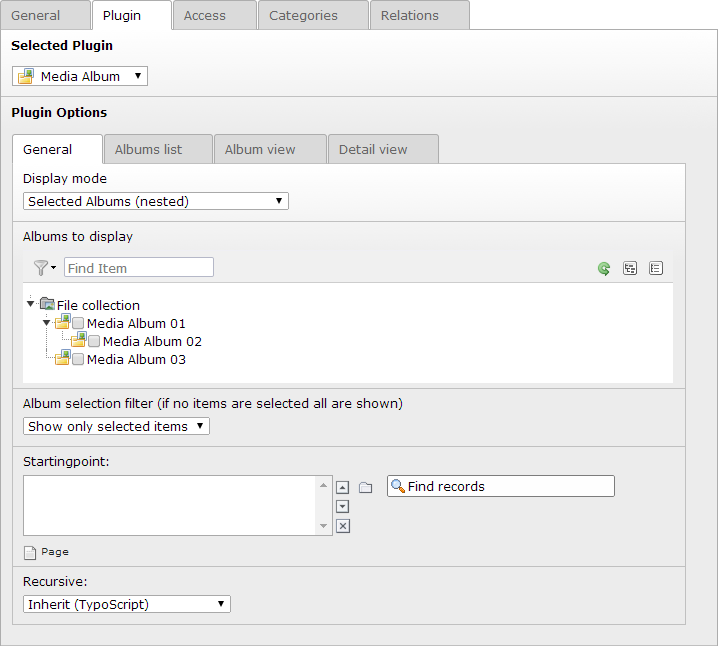
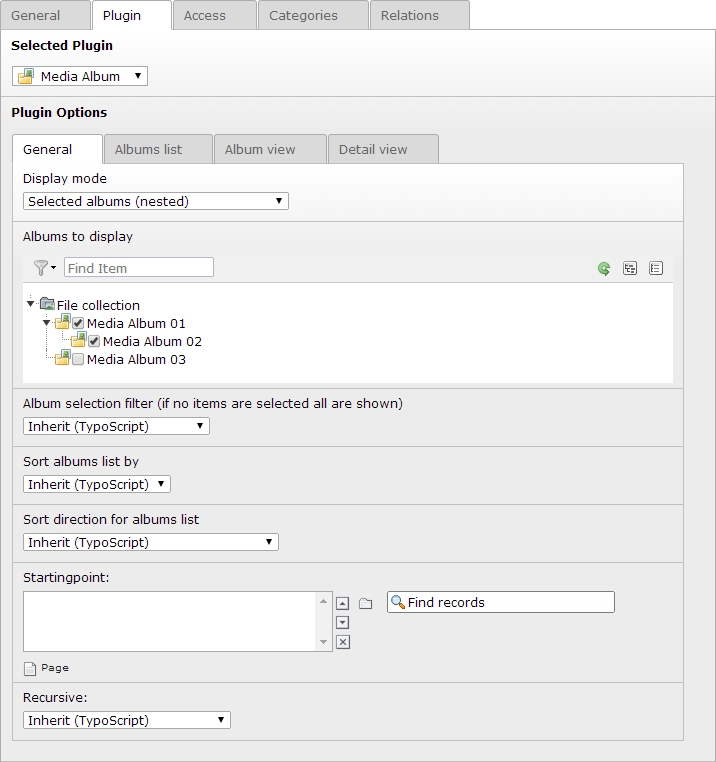
[FEATURE] add option to set sorting of albums in nestedListAction; fixes #70

diff --git a/Classes/Domain/Repository/MediaAlbumRepository.php b/Classes/Domain/Repository/MediaAlbumRepository.php
@@ -118,9 +118,11 @@ class MediaAlbumRepository extends \TYPO3\CMS\Extbase\Persistence\Repository {
 	 * @param array $filterByUids filter possible result by given uids
 	 * @param boolean $useAlbumFilterAsExclude
 	 * @param boolean $excludeEmptyAlbums
+	 * @param string $orderBy Sort albums by: datetime|crdate|sorting
+	 * @param string $orderDirection Sort order: asc|desc
 	 * @return \TYPO3\CMS\Extbase\Persistence\Generic\QueryResult
 	 */
-	public function findByParentAlbum(MediaAlbum $parentAlbum = NULL, array $filterByUids = array(), $useAlbumFilterAsExclude = FALSE, $excludeEmptyAlbums = TRUE) {
+	public function findByParentAlbum(MediaAlbum $parentAlbum = NULL, array $filterByUids = array(), $useAlbumFilterAsExclude = FALSE, $excludeEmptyAlbums = TRUE, $orderBy = 'sorting', $orderDirection = 'desc') {
 		$excludeEmptyAlbums = filter_var($excludeEmptyAlbums, FILTER_VALIDATE_BOOLEAN);
 		$query = $this->createQuery();
 		$constraints = array();
@@ -133,6 +135,7 @@ class MediaAlbumRepository extends \TYPO3\CMS\Extbase\Persistence\Repository {
 			}
 		}
 		$query->matching($query->logicalAnd($constraints));
+		$query->setOrderings($this->getOrderingsSettings($orderBy, $orderDirection));
 		$mediaAlbums = $query->execute();
 
 		foreach ($mediaAlbums as $key => $mediaAlbum) {
@@ -177,30 +180,7 @@ class MediaAlbumRepository extends \TYPO3\CMS\Extbase\Persistence\Repository {
 	public function findAll($excludeEmptyAlbums = TRUE, $orderBy = 'datetime', $orderDirection = 'desc') {
 		$excludeEmptyAlbums = filter_var($excludeEmptyAlbums, FILTER_VALIDATE_BOOLEAN);
 		$query = $this->createQuery();
-
-		// check orderDirection
-		if ($orderDirection === 'asc') {
-			$orderDirection = \TYPO3\CMS\Extbase\Persistence\QueryInterface::ORDER_ASCENDING;
-		} else {
-			$orderDirection = \TYPO3\CMS\Extbase\Persistence\QueryInterface::ORDER_DESCENDING;
-		}
-
-		// set orderBy and orderDirection
-		switch ($orderBy) {
-			case 'sorting':
-				$query->setOrderings(array('sorting' => $orderDirection));
-				break;
-			case 'crdate':
-				$query->setOrderings(array('crdate' => $orderDirection));
-				break;
-			default:
-				// datetime
-				$query->setOrderings(array(
-					'datetime' => $orderDirection,
-					'crdate' => $orderDirection,
-				));
-		}
-
+		$query->setOrderings($this->getOrderingsSettings($orderBy, $orderDirection));
 		$mediaAlbums = $query->execute();
 
 		foreach ($mediaAlbums as $key => $mediaAlbum) {
@@ -233,6 +213,48 @@ class MediaAlbumRepository extends \TYPO3\CMS\Extbase\Persistence\Repository {
 			$whereClause .= \TYPO3\CMS\Backend\Utility\BackendUtility::deleteClause('sys_file_collection');
 		}
 		return $whereClause;
+	}
+
+	/**
+	 * Get orderings settings. Returns an array like:
+	 * array(
+	 *  'foo' => \TYPO3\CMS\Extbase\Persistence\QueryInterface::ORDER_ASCENDING,
+	 *  'bar' => \TYPO3\CMS\Extbase\Persistence\QueryInterface::ORDER_DESCENDING
+	 * )
+	 *
+	 * @param string $orderBy Sort albums by: datetime|crdate|sorting
+	 * @param string $orderDirection Sort order: asc|desc
+	 * @return array Orderings settings used by \TYPO3\CMS\Extbase\Persistence\QueryInterface->setOrderings()
+	 */
+	protected function getOrderingsSettings($orderBy = 'sorting', $orderDirection = 'asc') {
+
+		// check orderDirection
+		if ($orderDirection === 'asc') {
+			$orderDirection = \TYPO3\CMS\Extbase\Persistence\QueryInterface::ORDER_ASCENDING;
+		} else {
+			$orderDirection = \TYPO3\CMS\Extbase\Persistence\QueryInterface::ORDER_DESCENDING;
+		}
+
+		// set $orderingsSettings by orderBy and orderDirection
+		switch ($orderBy) {
+			case 'datetime':
+				$orderingsSettings = array(
+					'datetime' => $orderDirection,
+					'crdate' => $orderDirection
+				);
+				break;
+			case 'crdate':
+				$orderingsSettings = array('crdate' => $orderDirection);
+				break;
+			default:
+				// sorting
+				$orderingsSettings = array(
+					'sorting' => $orderDirection,
+					'crdate' => $orderDirection
+				);
+		}
+
+		return $orderingsSettings;
 	}
 
 }

diff --git a/Classes/Controller/MediaAlbumController.php b/Classes/Controller/MediaAlbumController.php
@@ -189,12 +189,12 @@ class MediaAlbumController extends ActionController {
 			}
 		}
 
-		$mediaAlbums = $this->mediaAlbumRepository->findByParentalbum($mediaAlbum, $mediaAlbumsUids, $useAlbumFilterAsExclude, $this->settings['list']['hideEmptyAlbums']);
+		$mediaAlbums = $this->mediaAlbumRepository->findByParentalbum($mediaAlbum, $mediaAlbumsUids, $useAlbumFilterAsExclude, $this->settings['list']['hideEmptyAlbums'], $this->settings['list']['orderBy'], $this->settings['list']['orderDirection']);
 
 		// when only 1 album skip gallery view
 		if ($mediaAlbum === NULL && !empty($this->settings['list']['skipListWhenOnlyOneAlbum']) && count($mediaAlbums) === 1) {
 			$mediaAlbum = $mediaAlbums[0];
-			$mediaAlbums = $this->mediaAlbumRepository->findByParentalbum($mediaAlbum, $mediaAlbumsUids, $useAlbumFilterAsExclude, $this->settings['list']['hideEmptyAlbums']);
+			$mediaAlbums = $this->mediaAlbumRepository->findByParentalbum($mediaAlbum, $mediaAlbumsUids, $useAlbumFilterAsExclude, $this->settings['list']['hideEmptyAlbums'], $this->settings['list']['orderBy'], $this->settings['list']['orderDirection']);
 			$showBackLink = FALSE;
 		}
 
@@ -222,7 +222,7 @@ class MediaAlbumController extends ActionController {
 			$this->view->assign('mediaAlbum', $mediaAlbum);
 		} else {
 			// display the album list
-			$mediaAlbums = $this->mediaAlbumRepository->findAll($this->settings['list']['hideEmptyAlbums'], $this->settings['list']['flat']['orderBy'], $this->settings['list']['flat']['orderDirection']);
+			$mediaAlbums = $this->mediaAlbumRepository->findAll($this->settings['list']['hideEmptyAlbums'], $this->settings['list']['orderBy'], $this->settings['list']['orderDirection']);
 			$this->view->assign('displayMode', 'flatList');
 			$this->view->assign('mediaAlbums', $mediaAlbums);
 			$showBackLink = FALSE;

diff --git a/Classes/Hooks/ItemsProcFuncHook.php b/Classes/Hooks/ItemsProcFuncHook.php
@@ -59,18 +59,18 @@ class ItemsProcFuncHook {
 	}
 
 	/**
-	 * Sets the available options for settings.list.flat.orderBy
+	 * Sets the available options for settings.list.orderBy
 	 *
 	 * @param array &$config
 	 * @return void
 	 */
-	public function getItemsForFlatListOrderBy(array &$config) {
+	public function getItemsForListOrderBy(array &$config) {
 		$availableOptions = array('datetime', 'crdate', 'sorting');
 		$extConf = unserialize($GLOBALS['TYPO3_CONF_VARS']['EXT']['extConf']['fs_media_gallery']);
 		$allowedOptions = array();
 		$allowedOptionsFromExtConf = array();
-		if (!empty($extConf['list.']['flat.']['orderOptions'])) {
-			$allowedOptionsFromExtConf = GeneralUtility::trimExplode(',', $extConf['list.']['flat.']['orderOptions']);
+		if (!empty($extConf['list.']['orderOptions'])) {
+			$allowedOptionsFromExtConf = GeneralUtility::trimExplode(',', $extConf['list.']['orderOptions']);
 		}
 		foreach ($allowedOptionsFromExtConf as $allowedOptionFromExtConf) {
 			if (in_array($allowedOptionFromExtConf, $availableOptions)) {

diff --git a/Documentation/Configuration/Reference/Index.rst b/Documentation/Configuration/Reference/Index.rst
@@ -226,8 +226,8 @@ They are set by :typoscript:`plugin.tx_news.settings.list.<property>`
    Property                                                                                                         Data type                                                      :ref:`t3tsref:stdwrap`  Default
    ================================================================================================================ ============================================================== ======================= =================
    :ref:`hideEmptyAlbums <plugin.tx_fsmediagallery.settings.list.hideEmptyAlbums>`                                  :ref:`t3tsref:data-type-boolean`                               no                      :code:`1`
-   :ref:`flat.orderBy <plugin.tx_fsmediagallery.settings.list.flat.orderBy>`                                        :ref:`t3tsref:data-type-string` ``[datetime|crdate|sorting]``  no                      :code:`datetime`
-   :ref:`flat.orderDirection <plugin.tx_fsmediagallery.settings.list.flat.orderDirection>`                          :ref:`t3tsref:data-type-string` ``[asc|desc]``                 no                      :code:`desc`
+   :ref:`orderBy <plugin.tx_fsmediagallery.settings.list.orderBy>`                                                  :ref:`t3tsref:data-type-string` ``[datetime|crdate|sorting]``  no                      :code:`datetime`
+   :ref:`orderDirection <plugin.tx_fsmediagallery.settings.list.orderDirection>`                                    :ref:`t3tsref:data-type-string` ``[asc|desc]``                 no                      :code:`desc`
    :ref:`pagination.insertAbove <plugin.tx_fsmediagallery.settings.list.pagination.insertAbove>`                    :ref:`t3tsref:data-type-boolean`                               no                      :code:`0`
    :ref:`pagination.insertBelow <plugin.tx_fsmediagallery.settings.list.pagination.insertBelow>`                    :ref:`t3tsref:data-type-boolean`                               no                      :code:`1`
    :ref:`pagination.itemsPerPage <plugin.tx_fsmediagallery.settings.list.pagination.itemsPerPage>`                  :ref:`t3tsref:data-type-positive-integer`                      no                      :code:`12`
@@ -298,27 +298,27 @@ skipListWhenOnlyOneAlbum
 If :code:`1` (:code:`TRUE`) the nested album list view is skipped if only one album is to be displayed.
 
 
-.. _plugin.tx_fsmediagallery.settings.list.flat.orderBy:
+.. _plugin.tx_fsmediagallery.settings.list.orderBy:
 
-flat.orderBy
-""""""""""""
+orderBy
+"""""""
 
-:typoscript:`plugin.tx_fsmediagallery.settings.list.flat.orderBy =` :ref:`t3tsref:data-type-string` ``[datetime|crdate|sorting]``
+:typoscript:`plugin.tx_fsmediagallery.settings.list.orderBy =` :ref:`t3tsref:data-type-string` ``[datetime|crdate|sorting]``
 
-| Defines how albums in flat list view are ordered.
+| Defines how albums in list views are ordered.
 | :code:`datetime` = Given date/time
 | :code:`crdate` = Creation date/time
 | :code:`sorting` = Given sort order
 
 
-.. _plugin.tx_fsmediagallery.settings.list.flat.orderDirection:
+.. _plugin.tx_fsmediagallery.settings.list.orderDirection:
 
-flat.orderDirection
-"""""""""""""""""""
+orderDirection
+""""""""""""""
 
-:typoscript:`plugin.tx_fsmediagallery.settings.list.flat.orderDirection =` :ref:`t3tsref:data-type-string` ``[asc|desc]``
+:typoscript:`plugin.tx_fsmediagallery.settings.list.orderDirection =` :ref:`t3tsref:data-type-string` ``[asc|desc]``
 
-| Defines the sort order of albums in flat list view.
+| Defines the sort order of albums in list views.
 | :code:`asc` = Ascending (old to new/low to high)
 | :code:`desc` = Descending (new to old/high to low)
 

diff --git a/Documentation/Configuration/ExtensionManager/Index.rst b/Documentation/Configuration/ExtensionManager/Index.rst
@@ -24,7 +24,7 @@ To set this configuration, switch to the Extension Manager, search for the exten
    Property                                                                                 Data type                      Default
    ======================================================================================== ============================== ===================================================================
    :ref:`allowedActionsInFlexforms <extConf.tx_fsmedia_gallery.allowedActionsInFlexforms>`  :ref:`t3tsref:data-type-list`  nestedList,flatList,showAlbumByParam,showAlbumByConfig,randomAsset
-   :ref:`list.flat.orderOptions <extConf.tx_fsmedia_gallery.list.flat.orderOptions>`        :ref:`t3tsref:data-type-list`  datetime,crdate,sorting
+   :ref:`list.orderOptions <extConf.tx_fsmedia_gallery.list.orderOptions>`                  :ref:`t3tsref:data-type-list`  datetime,crdate,sorting
    ======================================================================================== ============================== ===================================================================
 
 
@@ -50,12 +50,12 @@ Available actions are:
 If no action is defined, *all* available actions are selectable.
 
 
-.. _extConf.tx_fsmedia_gallery.list.flat.orderOptions:
+.. _extConf.tx_fsmedia_gallery.list.orderOptions:
 
-list.flat.orderOptions
-""""""""""""""""""""""
+list.orderOptions
+"""""""""""""""""
 
-Comma separated list of sort options for field ":ref:`Sort albums list by <flexforms.mediagallery.tabs.general.list.flat.orderBy>`" in flexforms.
+Comma separated list of sort options for field ":ref:`Sort albums list by <flexforms.mediagallery.tabs.general.list.orderBy>`" in flexforms.
 Available actions are:
 
 * datetime

diff --git a/Documentation/Changelog/1-0-0.rst b/Documentation/Changelog/1-0-0.rst
@@ -40,6 +40,8 @@ The most important changes are:
 
 * New option ``resizeMode`` for media assets and thumbnail images for all display modes
 
+* Sort order of albums lists can be set in :ref:`plugin <flexforms.mediagallery.tabs.general.list.orderBy>` and via TS (:ref:`settings.list.orderBy <plugin.tx_fsmediagallery.settings.list.orderBy>`, :ref:`settings.list.orderDirection <plugin.tx_fsmediagallery.settings.list.orderDirection>`)
+
 * Default media asset dimensions orient on 1080i (widescreen aspect ratio of 16:9)
 
 * Translation key have been reordered and renamed
@@ -334,18 +336,18 @@ All settings are defined by using :typoscript:`plugin.tx_fsmediagallery.<propert
 
  - :oldProperty:
    :status:         new
-   :newProperty:    settings.list.flat.\
-                    :ref:`orderBy <plugin.tx_fsmediagallery.settings.list.flat.orderBy>`
-
- - :oldProperty:
-   :status:         new
-   :newProperty:    settings.list.flat.\
-                    :ref:`orderDirection <plugin.tx_fsmediagallery.settings.list.flat.orderDirection>`
+   :newProperty:    settings.list.\
+                    :ref:`hideEmptyAlbums <plugin.tx_fsmediagallery.settings.list.hideEmptyAlbums>`
 
  - :oldProperty:
    :status:         new
    :newProperty:    settings.list.\
-                    :ref:`hideEmptyAlbums <plugin.tx_fsmediagallery.settings.list.hideEmptyAlbums>`
+                    :ref:`orderBy <plugin.tx_fsmediagallery.settings.list.orderBy>`
+
+ - :oldProperty:
+   :status:         new
+   :newProperty:    settings.list.\
+                    :ref:`orderDirection <plugin.tx_fsmediagallery.settings.list.orderDirection>`
 
  - :oldProperty:    settings.skipGalleryWhenOneAlbum
    :status:         renamed, moved

diff --git a/Documentation/Configuration/Plugin/Index.rst b/Documentation/Configuration/Plugin/Index.rst
@@ -35,7 +35,7 @@ Tab "General"
 -------------
 
 .. figure:: ../../Images/Configuration/Plugin/flexforms.mediagallery.tabs.general.nested.png
-   :width: 718px
+   :width: 716px
    :alt: Tab "General" of plugin in display mode "Selected albums (nested)"
 
    **Image 1:** Tab "General" of plugin in display mode "Selected albums (nested)"
@@ -90,21 +90,21 @@ Tab "General"
 
 
  - :Field:       Sort albums list by
-   :Modes:       flatList
-   :TSref:       :ref:`settings.list.flat.orderBy <plugin.tx_fsmediagallery.settings.list.flat.orderBy>`
+   :Modes:       nestedList, flatList
+   :TSref:       :ref:`settings.list.orderBy <plugin.tx_fsmediagallery.settings.list.orderBy>`
    :Description:
-       .. _flexforms.mediagallery.tabs.general.list.flat.orderBy:
+       .. _flexforms.mediagallery.tabs.general.list.orderBy:
 
-       Defines how albums in ``flatList`` view are ordered.
+       Defines how albums in list views are ordered.
 
 
  - :Field:       Sort direction for albums list
-   :Modes:       flatList
-   :TSref:       :ref:`settings.list.flat.orderDirection <plugin.tx_fsmediagallery.settings.list.flat.orderDirection>`
+   :Modes:       nestedList, flatList
+   :TSref:       :ref:`settings.list.orderDirection <plugin.tx_fsmediagallery.settings.list.orderDirection>`
    :Description:
-       .. _flexforms.mediagallery.tabs.general.list.flat.orderDirection:
+       .. _flexforms.mediagallery.tabs.general.list.orderDirection:
 
-       Defines the sort direction (ascending/descending) for albums list in ``flatList`` view.
+       Defines the sort direction (ascending/descending) for albums list in list views.
 
 
  - :Field:       Startingpoint
